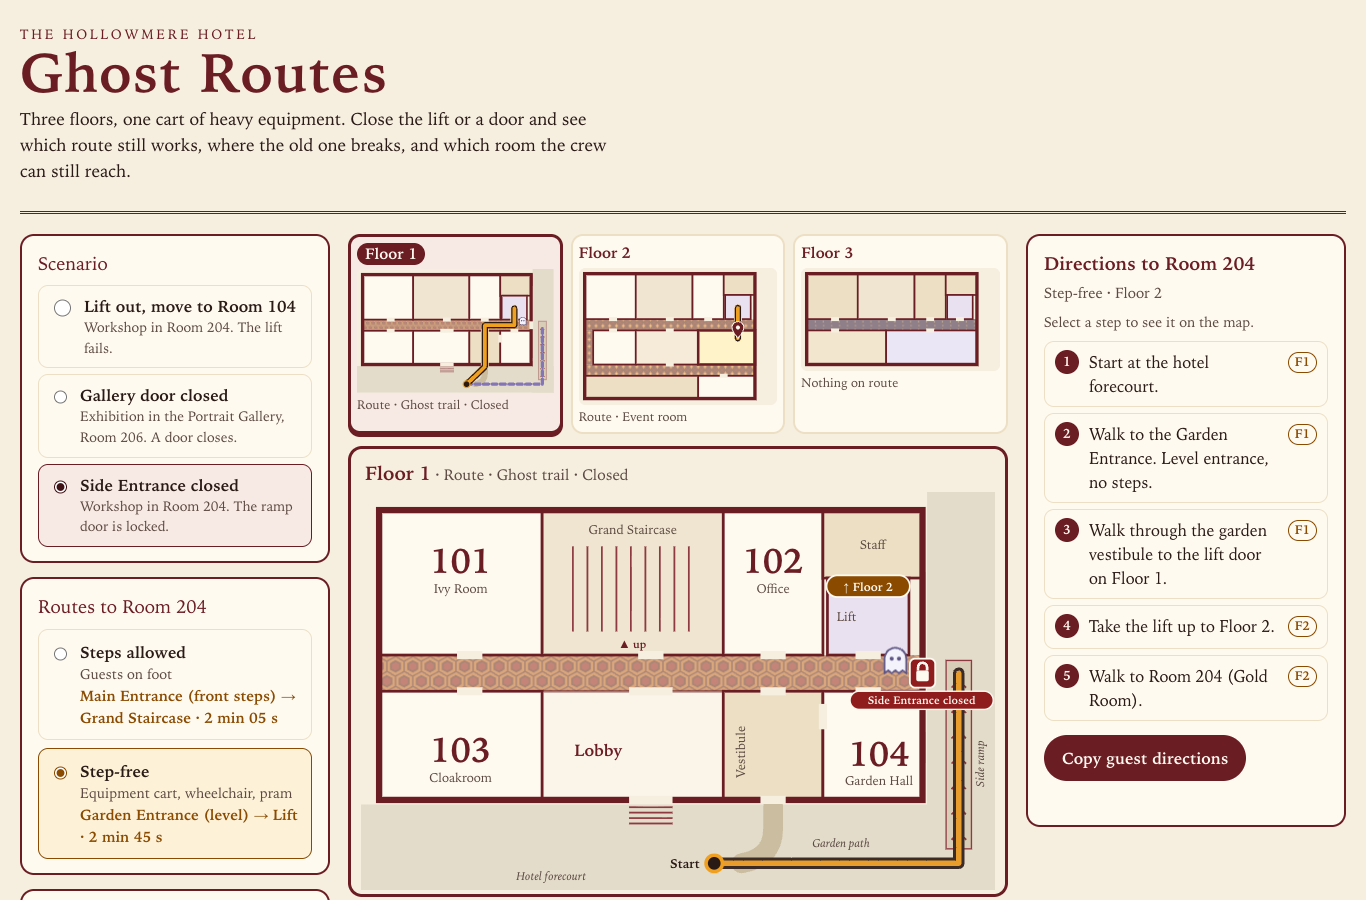
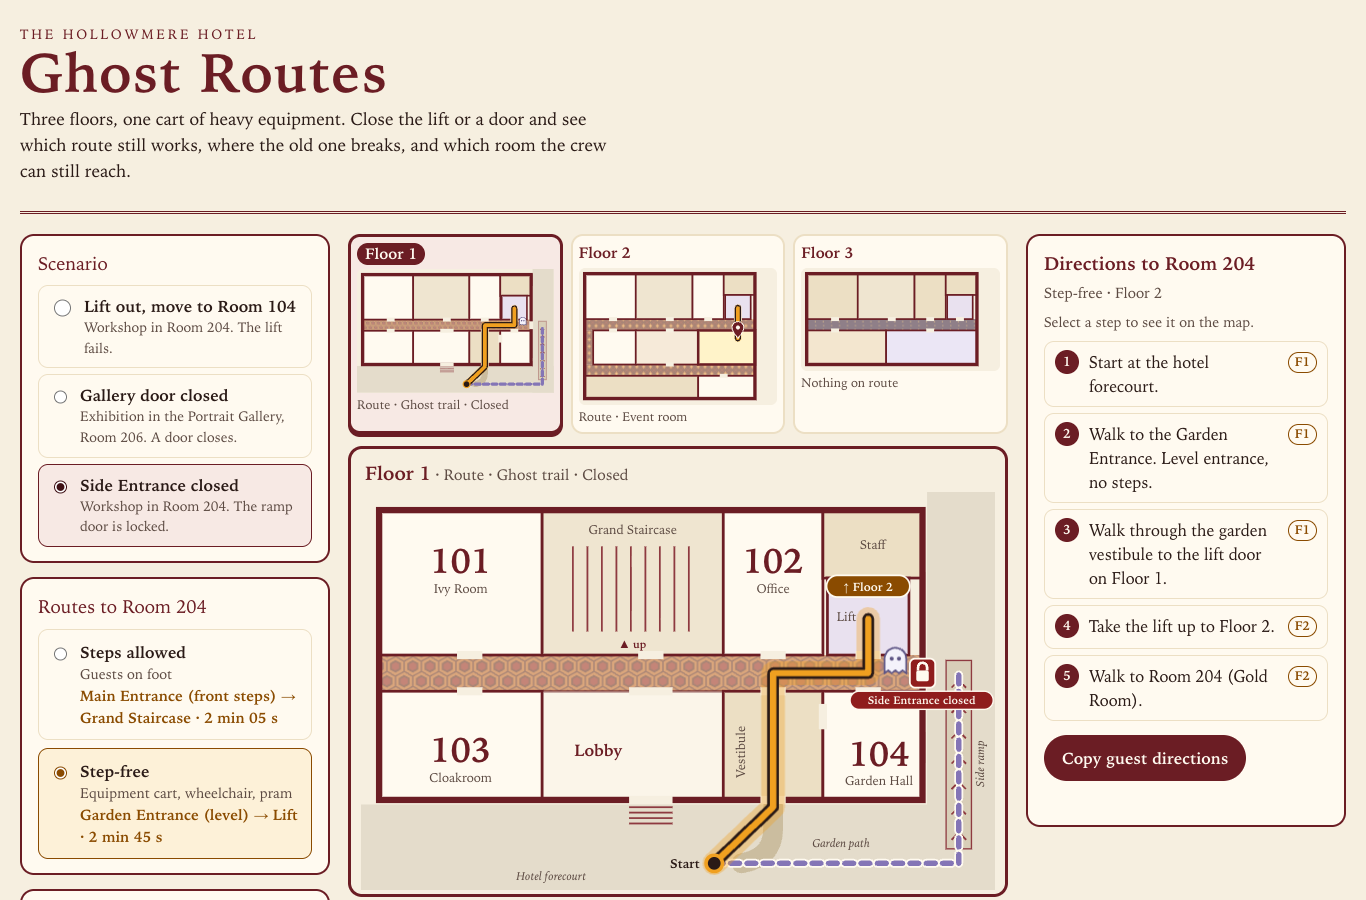
Evidence screenshots wait for animations to finish; retake them

Changed region(s): [[0.5227, 0.6533, 0.7072, 0.9644]]

diff --git a/e2e/expansion.spec.ts b/e2e/expansion.spec.ts
@@ -26,6 +26,8 @@ async function pickScenario(page: Page, name: RegExp) {
 
 async function evidence(page: Page, name: string, fullPage = false) {
   if (!EVIDENCE) return
+  // Screenshots show the final state: wait until no animation is running (the detour draws in after 0.45 s).
+  await page.waitForFunction(() => document.getAnimations().every((a) => a.playState !== 'running'))
   await page.evaluate(() => window.scrollTo(0, 0))
   await page.screenshot({ path: `${EVIDENCE}/${name}`, fullPage })
 }
@@ -268,8 +270,6 @@ test.describe('phone at 390 px', () => {
     await expect(status(page)).toHaveText('No step-free route to Room 204. The lift is out of service.')
     await expect(page.getByTestId('ghost-trail-1')).toBeAttached()
     await noSidewaysScroll(page)
-    // Let the 0.5 s ghost animation finish so the screenshot shows the final state.
-    await page.waitForTimeout(700)
     await evidence(page, 'phone-390-1-lift-out.png')
     await evidence(page, 'phone-390-1-lift-out-full.png', true)
     // Move options live under the map; the status links to them.
@@ -282,7 +282,6 @@ test.describe('phone at 390 px', () => {
     await page.getByRole('button', { name: 'Walk to Room 104 (Garden Hall).' }).click()
     await expect(page.getByRole('tabpanel')).toBeInViewport()
     await noSidewaysScroll(page)
-    await page.waitForTimeout(3400)
     await evidence(page, 'phone-390-2-moved-104-full.png', true)
 
     // Every other state, including both "no suitable route" states, fits the width too.

diff --git a/docs/kiro-usage.md b/docs/kiro-usage.md
@@ -162,3 +162,4 @@ All work below ran in **Kiro CLI**, on the local production build (`npm run buil
 - **Checks on the preview, without a login** (`BASE_URL=<preview> npx playwright test`, Google Chrome): 21 passed, 15 skipped by project. Covered on the preview: the detour to Room 206 by the Gallery Walk with "Door closed"; the lift outage and the move 204 → 104 (desktop and phone); the Side Entrance closed and the route through the garden vestibule; copy guest directions with the clipboard content read back (Room 104, the gallery detour, the Garden Entrance route) and reset; the move to Room 302 and a step that opens Floor 3; both "no suitable route" states; keyboard; animations that run once and do not replay; reduced motion; at 390 px the block order, the focus order and no sideways scroll. The screen recording also ran against the preview.
 - **Checked only locally before:** the Playwright MCP runs in Kiro CLI (`docs/evidence/mcp/mcp-1` to `mcp-7`); the unit and property tests (they test source, not a deployment).
 - **Not covered:** no real phone.
+- **Correction:** the first preview run showed that the evidence screenshots were taken before the detour started drawing (0.45 s delay), so the large map showed only the shared part of the route. The tests themselves were right; the screenshots were not the final state. The screenshot helper now waits until no animation is running, and the screenshots in `docs/evidence/expansion/` were taken again. The checks were then repeated on the preview of that commit.
